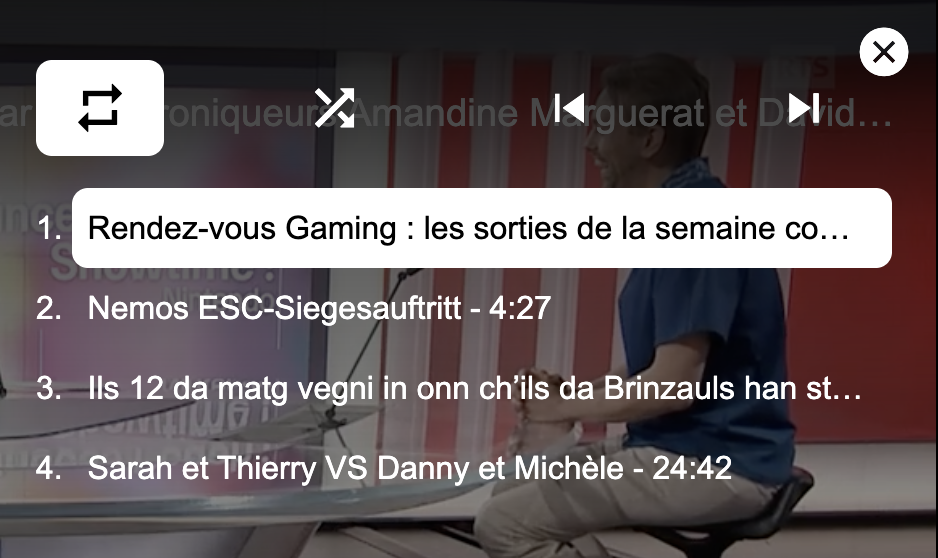
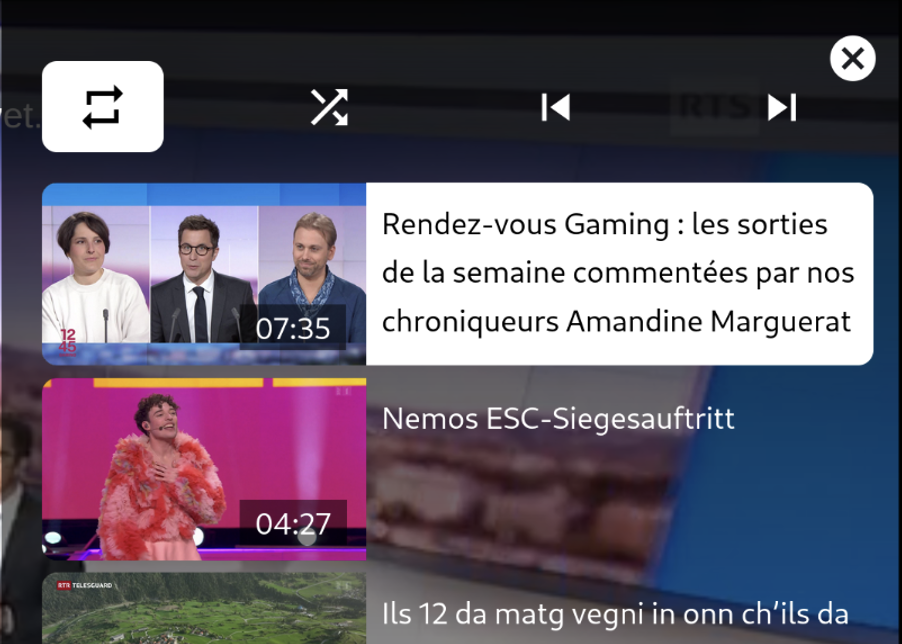
feat(pillarbox-playlist): use card button as base for playlist menu items
Resolves #80 by refactoring the implementation of the `PillarboxPlaylistMenuItem` to extend the new
`CardButton` component.

This change introduces a visual update to the playlist menu:

- Thumbnails are now displayed alongside playlist items in the menu dialog.
- Styles have been adjusted to match the `CardButton` layout.

diff --git a/packages/pillarbox-playlist/test/pillarbox-playlist-ui.spec.js b/packages/pillarbox-playlist/test/pillarbox-playlist-ui.spec.js
@@ -174,17 +174,16 @@ describe('PillarboxPlaylist', () => {
       dialog = player.pillarboxPlaylistMenuDialog;
       controls = dialog.getChild('PillarboxPlaylistControls');
       items = dialog.getChild('PillarboxPlaylistMenuItemsList').children()
-        .filter(item => item.name() === 'PillarboxPlaylistMenuListItem')
-        .map(item => item.getChild('PillarboxPlaylistMenuItem'));
+        .filter(item => item.name() === 'PillarboxPlaylistMenuItem');
     });
 
     it('should modal should display the button and all the items in the playlist', () => {
       // Then
       expect(button.hasClass('vjs-hidden')).toBeFalsy();
       expect(items.length).toBe(4);
-      expect(items[pillarboxPlaylist.currentIndex].hasClass('vjs-selected')).toBeTruthy();
+      expect(items[pillarboxPlaylist.currentIndex].hasClass('vjs-card-selected')).toBeTruthy();
       items.filter((item, index) => index !== pillarboxPlaylist.currentIndex)
-        .forEach((item) => expect(item.hasClass('vjs-selected')).toBeFalsy());
+        .forEach((item) => expect(item.hasClass('vjs-card-selected')).toBeFalsy());
       expect(dialog.hasClass('vjs-hidden')).toBeTruthy();
     });
 
@@ -213,9 +212,9 @@ describe('PillarboxPlaylist', () => {
 
       // Then
       expect(pillarboxPlaylist.currentIndex).toBe(2);
-      expect(items[pillarboxPlaylist.currentIndex].hasClass('vjs-selected')).toBeTruthy();
+      expect(items[pillarboxPlaylist.currentIndex].hasClass('vjs-card-selected')).toBeTruthy();
       items.filter((item, index) => index !== pillarboxPlaylist.currentIndex)
-        .forEach((item) => expect(item.hasClass('vjs-selected')).toBeFalsy());
+        .forEach((item) => expect(item.hasClass('vjs-card-selected')).toBeFalsy());
     });
 
     it('should toggle repeat mode through the dialog controls', () => {
@@ -249,9 +248,9 @@ describe('PillarboxPlaylist', () => {
 
       // Then
       expect(pillarboxPlaylist.currentIndex).toBe(1);
-      expect(items[pillarboxPlaylist.currentIndex].hasClass('vjs-selected')).toBeTruthy();
+      expect(items[pillarboxPlaylist.currentIndex].hasClass('vjs-card-selected')).toBeTruthy();
       items.filter((item, index) => index !== pillarboxPlaylist.currentIndex)
-        .forEach((item) => expect(item.hasClass('vjs-selected')).toBeFalsy());
+        .forEach((item) => expect(item.hasClass('vjs-card-selected')).toBeFalsy());
     });
 
     it('should go the previous item through the dialog controls', () => {
@@ -263,9 +262,9 @@ describe('PillarboxPlaylist', () => {
 
       // Then
       expect(pillarboxPlaylist.currentIndex).toBe(1);
-      expect(items[pillarboxPlaylist.currentIndex].hasClass('vjs-selected')).toBeTruthy();
+      expect(items[pillarboxPlaylist.currentIndex].hasClass('vjs-card-selected')).toBeTruthy();
       items.filter((item, index) => index !== pillarboxPlaylist.currentIndex)
-        .forEach((item) => expect(item.hasClass('vjs-selected')).toBeFalsy());
+        .forEach((item) => expect(item.hasClass('vjs-card-selected')).toBeFalsy());
     });
 
     it('should shuffle the items through the dialog controls', () => {

diff --git a/packages/pillarbox-playlist/src/components/modal/pillarbox-playlist-menu-item.js b/packages/pillarbox-playlist/src/components/modal/pillarbox-playlist-menu-item.js
@@ -1,29 +1,25 @@
 import videojs from 'video.js';
+import '@srgssr/card';
 
 /**
  * @ignore
  * @type {typeof import('video.js/dist/types/button').default}
  */
-const Button = videojs.getComponent('Button');
+const CardButton = videojs.getComponent('CardButton');
 
 /**
  * Class representing a playlist menu item in the Pillarbox plugin.
  */
-class PillarboxPlaylistMenuItem extends Button {
+class PillarboxPlaylistMenuItem extends CardButton {
   /**
    * Creates an instance of PillarboxPlaylistMenuItem.
    * @param {Object} player - The video.js player instance.
    * @param {Object} options - Options for the menu item.
    * @param {number} options.index - The index of the playlist item.
-   * @param {Object} options.item - The playlist item data.
-   * @param {Object} options.item.data - The data for the playlist item.
-   * @param {string} options.item.data.title - The title of the playlist item.
-   * @param {number} options.item.data.duration - The duration of the playlist item.
    */
   constructor(player, options) {
     super(player, options);
-    this.selected(options.index === this.playlist().currentIndex);
-    this.controlText(`${this.options_.item.data?.title} - ${videojs.formatTime(this.options_.item.data?.duration)}`);
+    this.select(options.index === this.playlist().currentIndex);
   }
 
   /**
@@ -42,25 +38,7 @@ class PillarboxPlaylistMenuItem extends Button {
    */
   handleClick(event) {
     super.handleClick(event);
-    this.playlist().select(this.options_.index);
-  }
-
-  /**
-   * Sets the selected state of the menu item.
-   *
-   * @param {boolean} selected - Whether the menu item is selected.
-   */
-  selected(selected) {
-    this.toggleClass('vjs-selected', selected);
-  }
-
-  /**
-   * Builds the CSS class string for the menu item.
-   *
-   * @returns {string} The CSS class string.
-   */
-  buildCSSClass() {
-    return `pbw-playlist-item-button vjs-visible-text ${super.buildCSSClass()}`;
+    this.playlist().select(this.options().index);
   }
 }
 

diff --git a/packages/pillarbox-playlist/scss/pillarbox-playlist.scss b/packages/pillarbox-playlist/scss/pillarbox-playlist.scss
@@ -1,4 +1,5 @@
 @import '@srgssr/svg-button/dist/svg-button.min.css';
+@import '@srgssr/card/dist/card.min.css';
 
 .pbw-playlist-button {
   cursor: pointer;
@@ -16,31 +17,56 @@
 }
 
 .pbw-playlist-dialog {
+
   .vjs-modal-dialog-content {
     font-size: 1em;
   }
 
-  .pbw-playlist-items {
+  .vjs-card-button {
     width: 100%;
-    padding-left: 0;
-    list-style-position: inside;
+    padding: 0;
+    background-color: rgb(0, 0, 0, 0.3);
     border-radius: 0.5em;
-  }
 
-  .vjs-button.pbw-playlist-item-button {
-    width: 95%;
-    height: auto;
-    padding: 0.5em;
-    overflow: hidden;
-    white-space: nowrap;
-    text-align: left;
-    text-overflow: ellipsis;
-    border-radius: 0.5em;
-  }
+    &:focus {
+      background-color: rgb(255, 255, 255, 0.3);
+    }
 
-  .vjs-selected {
-    color: black;
-    background-color: white;
+    &.vjs-card-selected {
+      color: black;
+      background-color: white;
+    }
+
+    .vjs-card-figure {
+      position: relative;
+      display: flex;
+      height: 6em;
+
+      .vjs-card-img {
+        width: auto;
+        background-color: black;
+        border-radius: 0.5em 0 0 0.5em;
+        aspect-ratio: 16/9;
+      }
+    }
+
+    .vjs-card-figcaption {
+      padding-inline: 0.5em;
+
+      .vjs-card-title {
+        overflow: hidden;
+        line-height: 1.6em;
+      }
+
+      .vjs-card-duration {
+        position: absolute;
+        top: 4em;
+        left: 6.5em;
+        color: white;
+        background-color: rgb(0, 0, 0, 0.5);
+        padding-inline: 0.5em;
+      }
+    }
   }
 
   .pbw-playlist-controls {
@@ -51,6 +77,15 @@
     .vjs-button {
       margin-right: 1em;
       border-radius: 0.5em;
+
+      &:focus {
+        background-color: rgb(255, 255, 255, 0.3);
+      }
+
+      &.vjs-selected {
+        color: black;
+        background-color: white;
+      }
     }
   }
 

diff --git a/packages/pillarbox-playlist/src/components/modal/pillarbox-playlist-modal.js b/packages/pillarbox-playlist/src/components/modal/pillarbox-playlist-modal.js
@@ -96,9 +96,8 @@ class PlaylistMenuDialog extends ModalDialog {
     const itemList = this.getChild('PillarboxPlaylistMenuItemsList');
 
     itemList.children()
-      .filter(item => item.name() === 'PillarboxPlaylistMenuListItem')
-      .map(item => item.getChild('PillarboxPlaylistMenuItem'))
-      .forEach(button => button.selected(index === button.options().index));
+      .filter(item => item.name() === this.options().itemComponentName)
+      .forEach(button => button.select(index === button.options().index));
   }
 
   /**
@@ -114,22 +113,16 @@ class PlaylistMenuDialog extends ModalDialog {
   renderItems() {
     const itemListEl = new Component(this.player(), {
       name: 'PillarboxPlaylistMenuItemsList',
-      el: videojs.dom.createEl('ol', {
+      el: videojs.dom.createEl('div', {
         className: 'pbw-playlist-items'
       })
     });
 
     this.playlist().items.forEach((item, index) => {
-      const itemEl = new Component(this.player(), {
-        name: 'PillarboxPlaylistMenuListItem',
-        el: videojs.dom.createEl('li', {
-          className: 'pbw-playlist-item'
-        })
+
+      itemListEl.addChild(this.options().itemComponentName, {
+        metadata: item.data, index
       });
-
-      itemEl.addChild(this.options().itemComponentName, { item, index });
-
-      itemListEl.addChild(itemEl);
     });
 
     this.addChild(itemListEl);

diff --git a/packages/pillarbox-playlist/index.html b/packages/pillarbox-playlist/index.html
@@ -23,7 +23,7 @@
 <script type="module">
   import '@srgssr/pillarbox-web/dist/pillarbox.min.css';
   import './scss/pillarbox-playlist.scss';
-  import { default as pillarbox, SrgSsr} from '@srgssr/pillarbox-web';
+  import { default as pillarbox, SrgSsr } from '@srgssr/pillarbox-web';
   import './src/pillarbox-playlist.js';
   import './src/pillarbox-playlist-ui.js';
   import { RepeatMode } from './src/pillarbox-playlist.js';
@@ -59,7 +59,12 @@
 
     return {
       sources: [{ src: urn, type: 'srgssr/urn' }],
-      data: { title: mainChapter.title, duration: mainChapter.duration / 1000 },
+      data: {
+        title: mainChapter.title,
+        duration: mainChapter.duration / 1000,
+        imageUrl: mainChapter.imageUrl,
+        imageTitle: mainChapter.imageTitle
+      },
       poster: mainChapter.imageUrl
     };
   })).then(playlist => {
